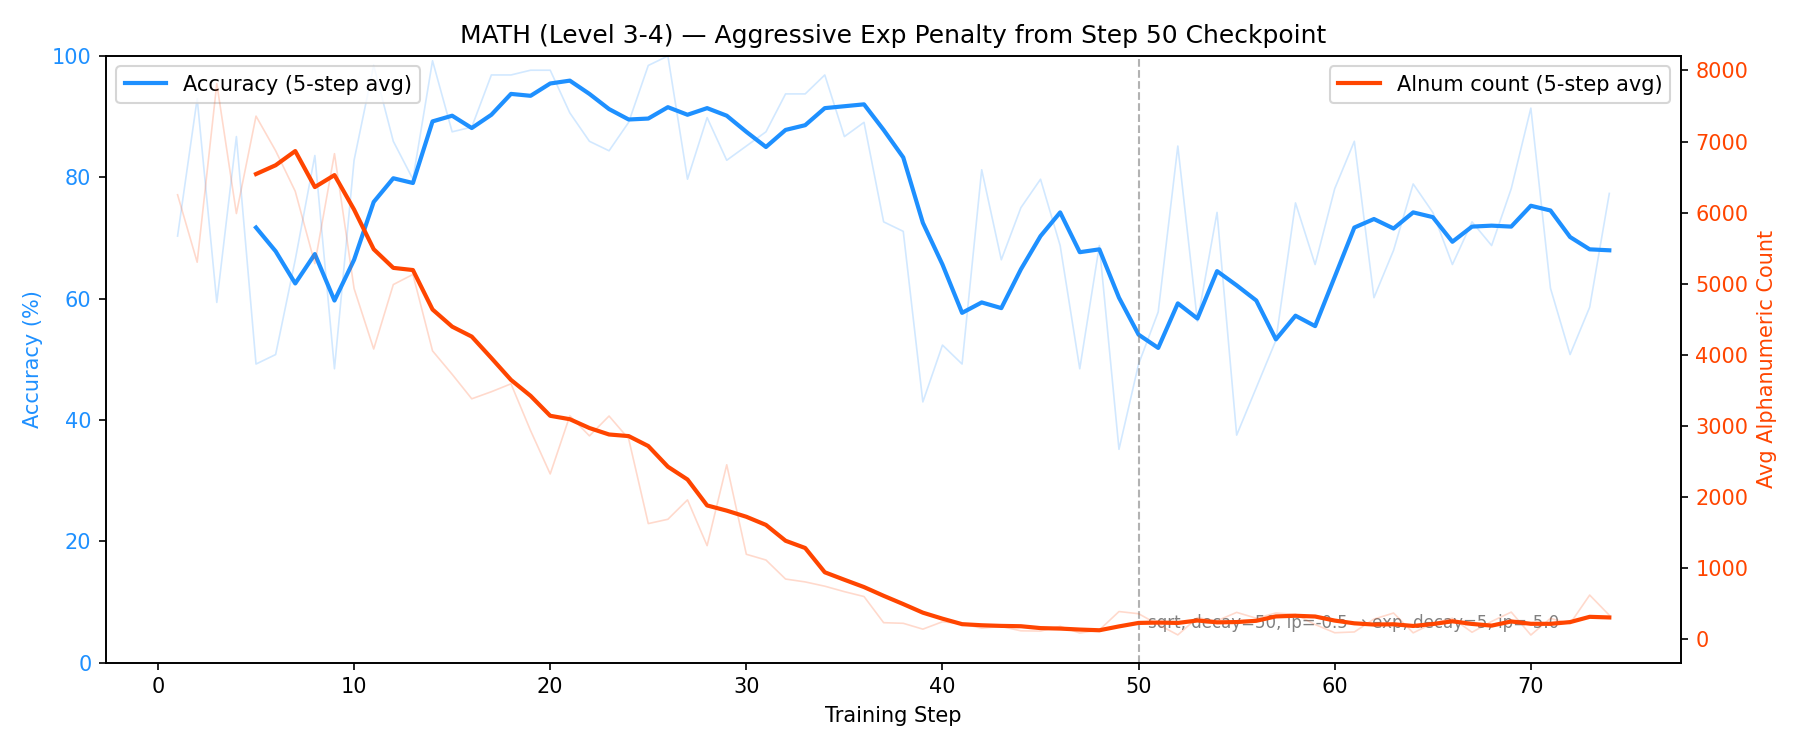
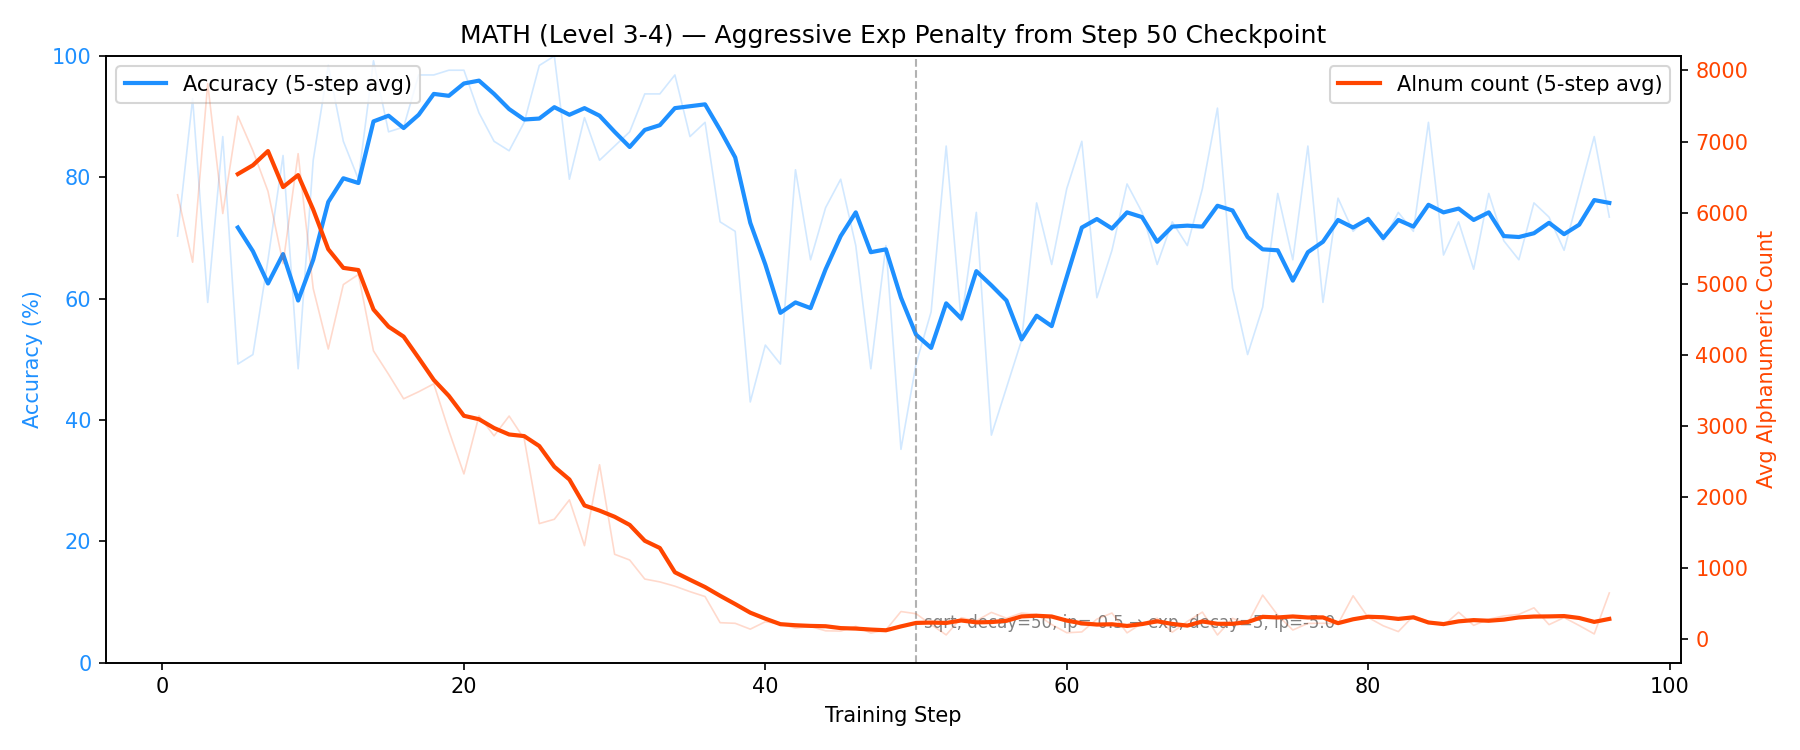
Add think/boxed tags to examples, update exp plot to step 96

diff --git a/README.md b/README.md
@@ -99,6 +99,7 @@ Continued from step-50 checkpoint with `exp(-alnum/5)` — essentially zero rewa
 
 > **Q:** Simplify $\sqrt{245}$.
 > ```
+> <think>
 > Okay, so I need to simplify the square root of 245. Hmm, let me think. I remember that
 > simplifying a square root means breaking it down into smaller square roots that are easier
 > to handle. Maybe I should start by factoring 245 into its prime factors? Let me try that.
@@ -108,44 +109,64 @@ Continued from step-50 checkpoint with `exp(-alnum/5)` — essentially zero rewa
 > 5. Let me divide 245 by 5. 5 times 49 is 245, right? So 245 = 5 * 49. Okay, so that's a
 > start. Now, 49 is a number I recognize. 49 is 7 squared, right? 7x7 is 49. So that means
 > 245 can be written as 5 * 7 * 7. ...
+> </think>
+>
+> \boxed{7\sqrt{5}}
 > ```
-> **Answer:** $\boxed{7\sqrt{5}}$
 
 **Step 45 — terse notation (alnum 38, 54 chars):**
 
 > **Q:** What is the units digit of $3^{2004}$?
 > ```
+> <think>
 > 3^1 =3, 3^2=9, 3^3=7, 3^4=1, then 2004 mod 4 =0, so 1.
+> </think>
+>
+> \boxed{1}
 > ```
-> **Answer:** $\boxed{1}$
 
 **Step 50 — minimal (alnum 28, 49 chars):**
 
 > **Q:** How many integers, $x$, satisfy $|5x - 3| \le 7$?
 > ```
+> <think>
 > |5x-3| ≤7 → -7 ≤5x-3 ≤7 → -4 ≤5x ≤10 → -4/5 ≤x ≤2
+> </think>
+>
+> \boxed{3}
 > ```
-> **Answer:** $\boxed{3}$
 
 **Exp run, step 51+ — pure symbolic (alnum 13-24, no English):**
 
 > **Q:** A certain organism begins as three cells. Each cell splits and becomes two cells at the end of two days. [...] How many cells are there at the end of the 8th day?
 > ```
+> <think>
 > 3*(2^4)
+> </think>
+>
+> \boxed{48}
 > ```
-> **Answer:** $\boxed{48}$ — 7 characters, zero English
+> 7 characters of reasoning, zero English.
 
 > **Q:** Find the center of the circle with equation $x^2 - 6x + y^2 + 2y = 9$.
 > ```
+> <think>
 > (x-3)^2 + (y+1)^2 = 13
+> </think>
+>
+> \boxed{(3, -1)}
 > ```
-> **Answer:** $\boxed{(3, -1)}$ — completes the square silently
+> Completes the square silently.
 
 > **Q:** Find the equation of the plane passing through $(1,4,-2)$, parallel to $-2x + y - 3z = 7$.
 > ```
+> <think>
 > -2(1) + 4 - 3(-2) + D = 0 → -2 +4 +6 +D = 0 → D = -8.
+> </think>
+>
+> \boxed{-2x + y - 3z - 8 = 0}
 > ```
-> **Answer:** $\boxed{-2x + y - 3z - 8 = 0}$ — dense symbolic chain with Unicode arrows, zero English
+> Dense symbolic chain with Unicode arrows, zero English.
 
 Compression ratio from step 1 to the exp run: **~150-200x** in alphanumeric character count while maintaining correctness.
 
